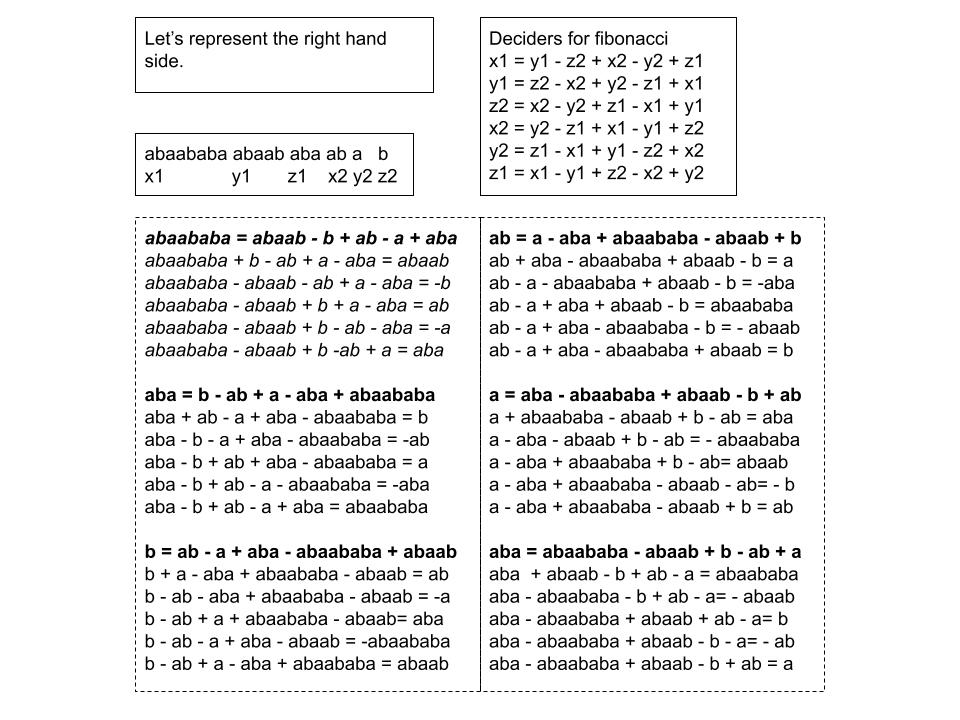
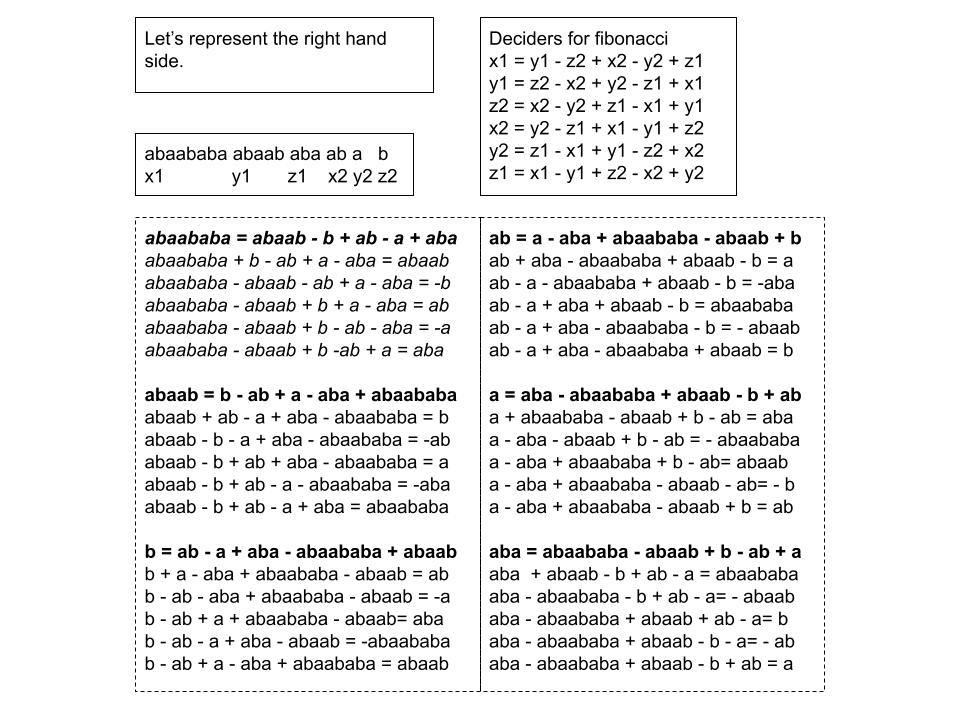
inferrable languages

Changed region(s): [[0.1875, 0.5194, 0.4688, 0.7333]]

diff --git a/InferrableLanguages/InferrableLanguages/InferrableLanguages.cs b/InferrableLanguages/InferrableLanguages/InferrableLanguages.cs
@@ -27,41 +27,49 @@ namespace InferrableLanguages
             return stringBuilder.ToString();
         }
 
-        private static string SubtractFromRight(string left, string right)
+        private static (int, string) SubtractFromRight(string left, string right)
         {
             StringBuilder stringBuilder = new StringBuilder();
             int i = left.Length - 1;
             int j = right.Length - 1;
 
-            while (i >= 0 && j >= 0)
+            if (i < j)
             {
-                if ((left[i] != right[j]))
+                while (i >= 0 && j >= 0)
                 {
-                    break;
+                    if ((left[i] != right[j]))
+                    {
+                        break;
+                    }
+                    i--;
+                    j--;
                 }
-                i--;
-                j--;
-            }
 
-            while (i >= 0)
+                while (i >= 0)
+                {
+                    stringBuilder.Append(left[i--]);
+                }
+
+                while (j >= 0)
+                {
+                    stringBuilder.Append(right[j--]);
+                }
+                
+                StringBuilder reversed = new StringBuilder();
+                String str = stringBuilder.ToString();
+
+                for (int k = str.Length - 1; k >= 0; k--)
+                {
+                    reversed.Append(str[k]);
+                }
+
+                return (1, reversed.ToString());
+            }
+            else
             {
-                stringBuilder.Append(left[i--]);
+                return (-1, SubtractFromLeft(left, right));
             }
 
-            while (j >= 0)
-            {
-                stringBuilder.Append(right[j--]);
-            }
-            
-            StringBuilder reversed = new StringBuilder();
-            String str = stringBuilder.ToString();
-
-            for (int k = str.Length - 1; k >= 0; k--)
-            {
-                reversed.Append(str[k]);
-            }
-
-            return reversed.ToString();
         }
 
         // The LHS equations can be generalized to LHS = a - b + c - d + e, 
@@ -73,9 +81,9 @@ namespace InferrableLanguages
         {
             StringBuilder x1Sb = new StringBuilder();
 
-            x1Sb = new StringBuilder(SubtractFromRight(y1, z2));
+            x1Sb = new StringBuilder(SubtractFromRight(y1, z2).Item2);
             x1Sb.Append(x2);
-            x1Sb = new StringBuilder(SubtractFromRight(x1Sb.ToString(), y2));
+            x1Sb = new StringBuilder(SubtractFromRight(x1Sb.ToString(), y2).Item2);
             x1Sb.Append(z1);
 
             return x1Sb.ToString();
@@ -97,7 +105,13 @@ namespace InferrableLanguages
         {
             StringBuilder z1Sb = new StringBuilder();
 
-            z1Sb = new StringBuilder(SubtractFromRight(x2, y2));
+            (int p, string ret) = SubtractFromRight(x2, y2);
+            z1Sb = new StringBuilder(ret);
+            if (p < 0)
+            {
+                (int p, string ret1) = SubtractFromRight(z1, ret);
+                z1Sb = new StringBuilder(ret1);
+            }
             z1Sb.Append(z1);
             z1Sb = new StringBuilder(SubtractFromRight(z1Sb.ToString(), x1));
             z1Sb.Append(y1);
